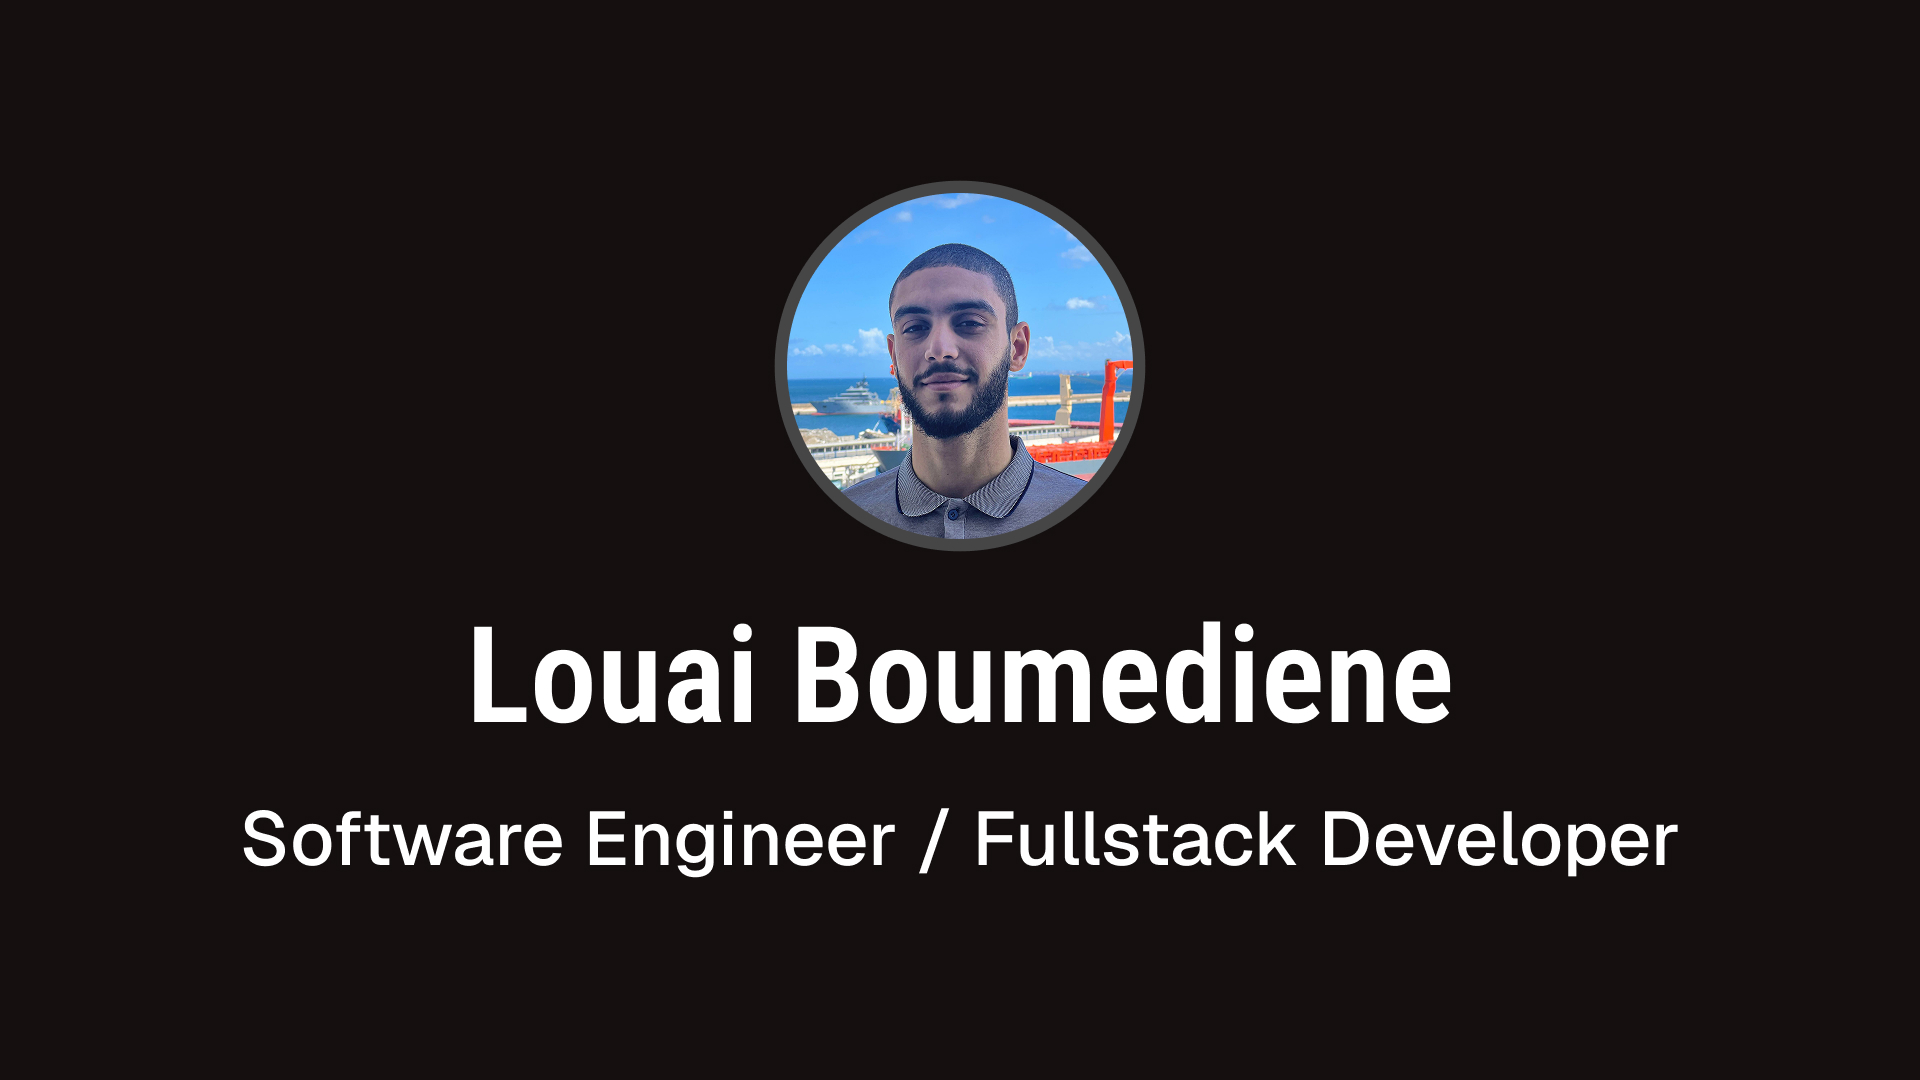
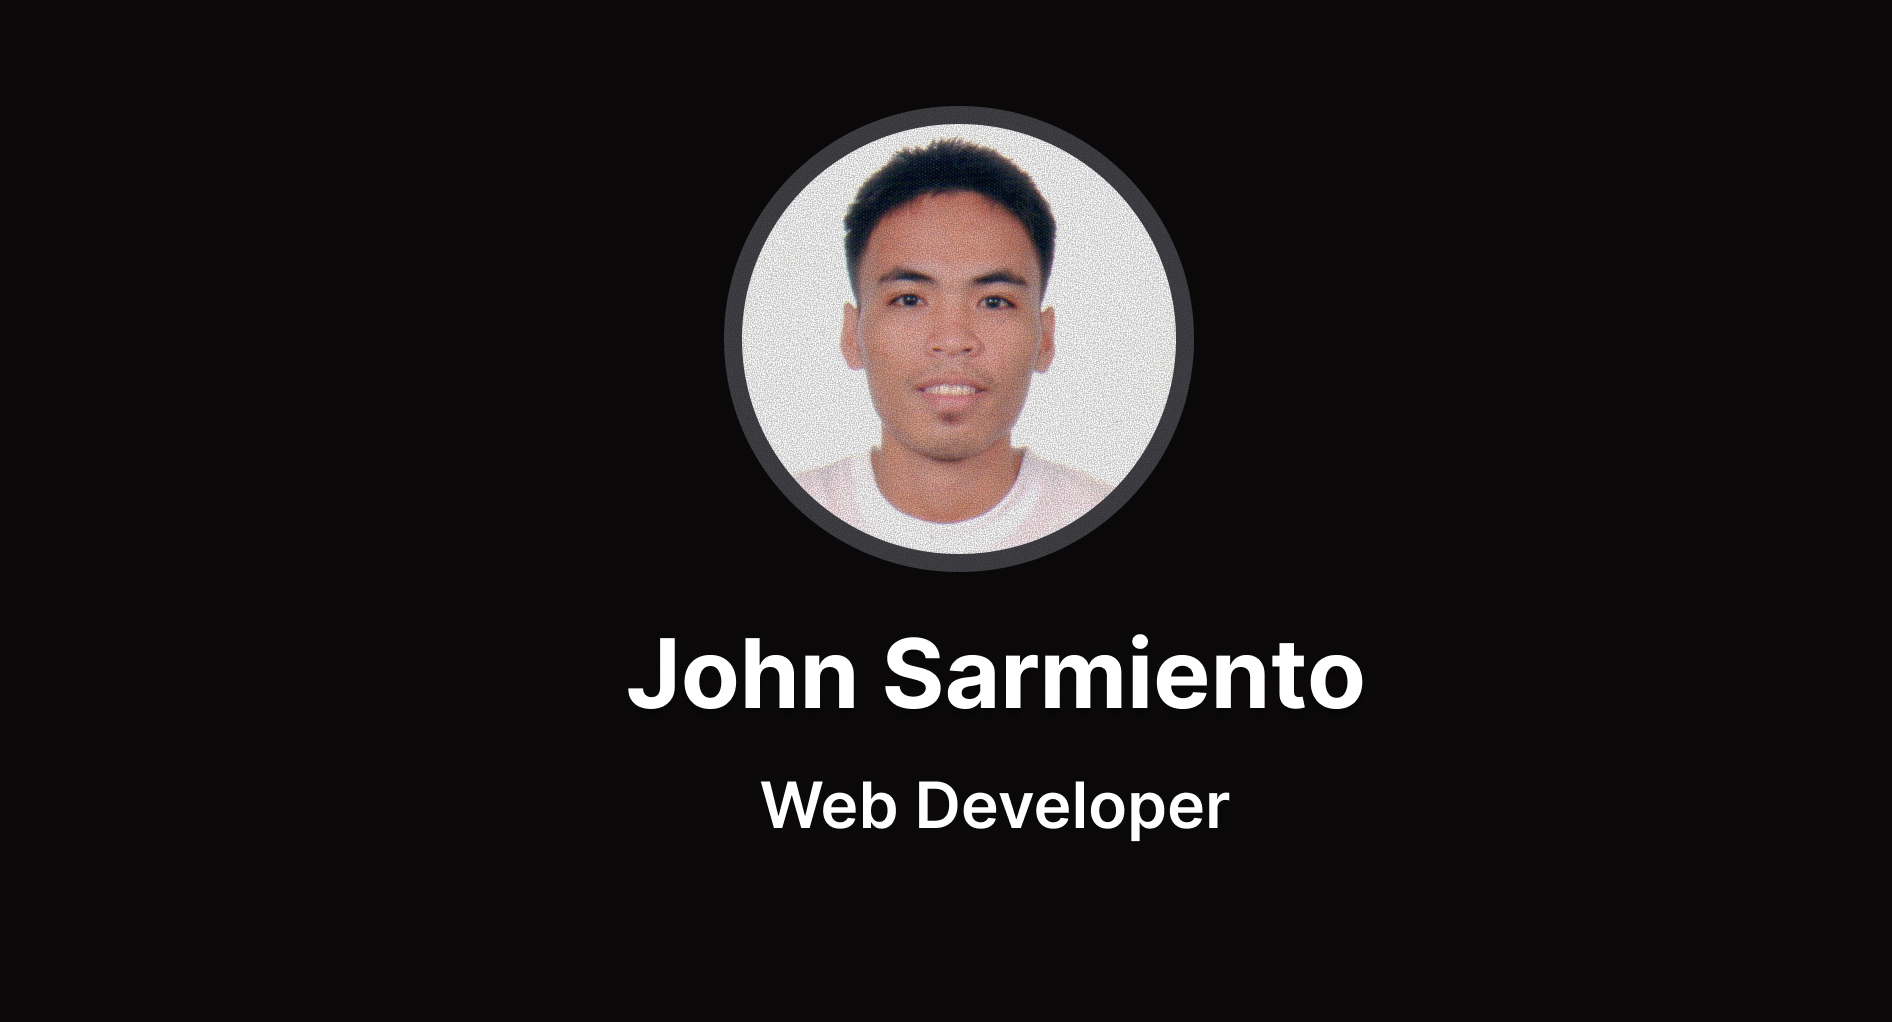
update image

Changed region(s): [[0.2495, 0.091, 0.7796, 0.6977], [0.1247, 0.728, 0.8732, 0.819]]

diff --git a/src/lib/constants/experience.ts b/src/lib/constants/experience.ts
@@ -6,7 +6,7 @@ export const EXPERIENCES: Experience[] = [
     positions: [
       {
         title: "Front-end Developer",
-        year: "10.2020 - 6.2024",
+        year: "10.2020 - 06.2024",
         description: `
         - ♦ Developed and maintained web application enabling partners to automate product updates,
             pricing, schedules, and transaction managements.
@@ -26,7 +26,7 @@ export const EXPERIENCES: Experience[] = [
     positions: [
       {
         title: "Quality Assurance Specialist",
-        year: "6.2024 - 02.2025",
+        year: "06.2024 - 02.2025",
         description: `
         - ♦ Responsible in checking the integrity and completeness of source materials.
         - ♦ Paying close attention to the content processing methods.
@@ -65,7 +65,7 @@ export const EXPERIENCES: Experience[] = [
     positions: [
       {
         title: "Bachelor of Science in Information Technology | Negros Oriental State University",
-        year: "09.2022 - 07.2025",
+        year: "06.2015 - 03.2019",
         description: ``,
         skills: [],
       },

diff --git a/src/lib/constants/index.ts b/src/lib/constants/index.ts
@@ -1,5 +1,4 @@
 import LinkedinIcon from '@/components/ui/icons/linkedin.astro'
-import XIcon from '@/components/ui/icons/x.astro'
 import GithubIcon from '@/components/ui/icons/github.astro'
 
 export const NAV_LINKS = [
@@ -7,10 +6,6 @@ export const NAV_LINKS = [
     label: "Home",
     href: "/",
   },
-  // {
-  //   label: "Articles",
-  //   href: "/articles",
-  // },
   {
     label: "Projects",
     href: "/projects",
@@ -21,16 +16,11 @@ export const SOCIAL_LINKS = [
   {
     name: 'Github',
     icon: GithubIcon,
-    url: "https://github.com/Louai-Zokerburg",
+    url: "https://github.com/jfsarmien2",
   },
   {
     name: 'Linkedin',
     icon: LinkedinIcon,
-    url: "https://www.linkedin.com/in/louai-boumediene-018919262/",
-  },
-  {
-    name: 'X',
-    icon: XIcon,
-    url: "https://x.com/Louai_Dourov",
+    url: "https://www.linkedin.com/in/john-sarmiento-192476345/",
   },
 ];
